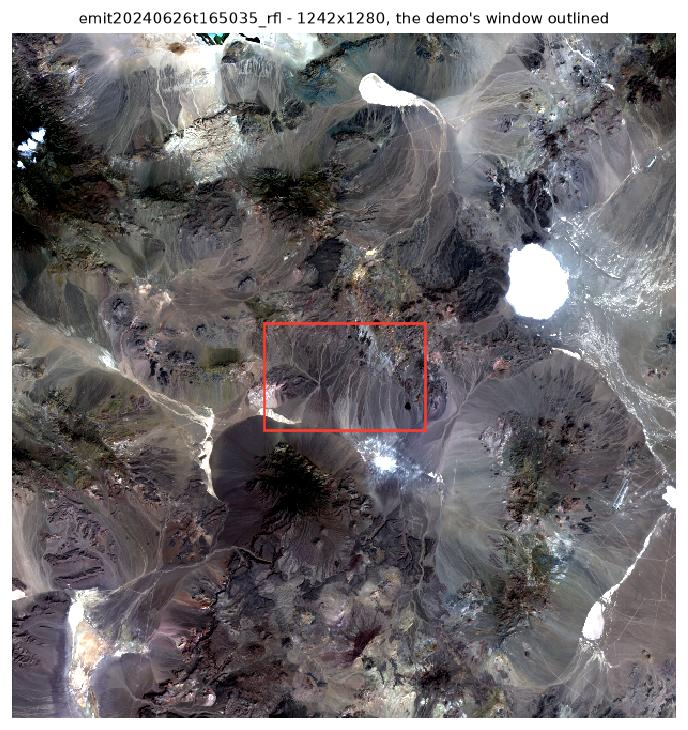
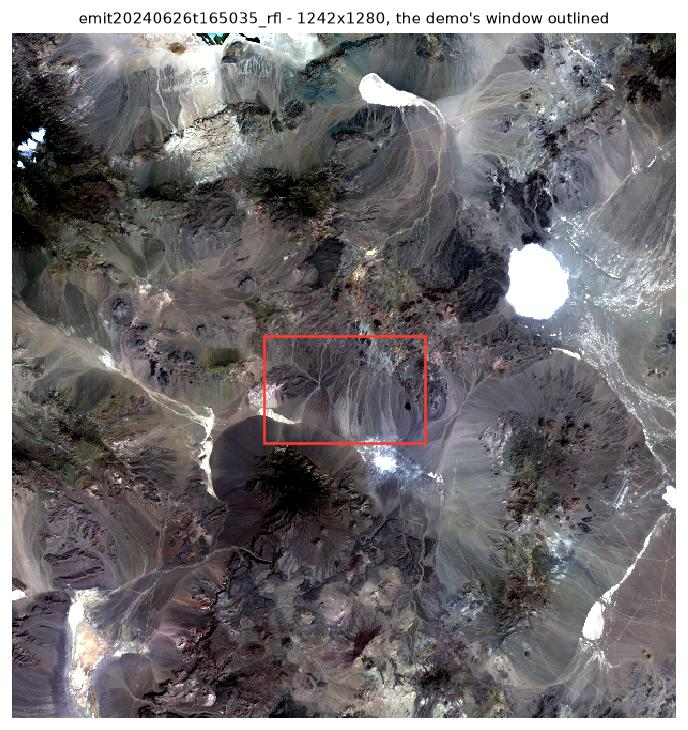
Trim the demo tile to 300x150: 40% faster for the same mineralogy
The 300x200 central tile ran 13m37s, which is a long time to ask of someone
trying a demo. Trimmed to 150 lines, still centred on the granule
(line 640 +/- 75, lines 565-714, samples 471-770), published as
demo-data-v6.

                        v5 300x200      v6 300x150
    runtime             13m 37s         8m 11s
    download            108 MB          81 MB
    group 1             96.7%, 25 mats  97.4%, 24 mats
    group 2             96.3%, 81 mats  95.7%, 78 mats

Nothing of substance is lost. The assemblage is the same -- a
goethite/hematite suite in group 1, argillic alteration in group 2 -- and
the top group-2 materials are arguably cleaner, with Kaolinite KGa-2 and
Kaolinite CM9 now second and third where a Plastic_Vinyl match previously
sat.

Width stays at 300 for emit-sds/tetracorder-lite#24. Both cubes verified
byte-identical to the granule after cropping. Runtime and scaling figures
updated everywhere they appear: banner, walkthrough, page, both devcontainer
configs and the READMEs. A full granule is now 35x the pixels for under 5x
the time rather than 26x for under 3x.

Claude-Session: https://claude.ai/code/session_01GqyHtwBF7eWNrTBmGjhyYP

Changed region(s): [[0.3663, 0.4219, 0.641, 0.4822], [0.3663, 0.5726, 0.641, 0.6329]]

diff --git a/.devcontainer/page/index.html b/.devcontainer/page/index.html
@@ -89,7 +89,7 @@
 <body>
 <main>
   <h1>Tetracorder on an EMIT L2A scene</h1>
-  <p class="sub">A 300&times;200 window of granule <code>emit20240626t165035</code>, run end to end
+  <p class="sub">A 300&times;150 window of granule <code>emit20240626t165035</code>, run end to end
      through <code>tetrapy</code>: convolve the USGS spectral library onto the scene's channels,
      set up and run Tetracorder, aggregate the results into L2B mineral products.</p>
 
@@ -116,13 +116,13 @@
     <div class="grid">
       <figure>
         <img src="rfl_rgb.png" alt="True-colour reflectance quicklook of the subset">
-        <figcaption>What the demo ran on: a 300&times;200 window, true colour
+        <figcaption>What the demo ran on: a 300&times;150 window, true colour
           (640 / 550 / 470 nm).</figcaption>
       </figure>
       <figure>
         <img src="full-scene.jpg" alt="The full granule with the demo's window outlined">
         <figcaption>Where it came from. The whole granule is 1242&times;1280 &mdash;
-          26&times; more pixels &mdash; and mostly snow-covered mountain. The window
+          35&times; more pixels &mdash; and mostly snow-covered mountain. The window
           is arid volcanic terrain &mdash; alluvial fans cut by dendritic drainage
           &mdash; taken from the centre of the granule. Almost every pixel carries
           an identification, and the mineral classes follow the fan lobes rather
@@ -133,9 +133,9 @@
     <p class="prose"><b>This is a subset.</b> Running a whole granule is the same
       command against a bigger file &mdash; point <code>data.rfl</code> and
       <code>data.rfluncert</code> in the config at it. Expect roughly half an hour
-      rather than fourteen minutes: measured on this hardware a full 1242&times;1280
-      granule took about 34 minutes against 13m37s for this window, so 26&times; the
-      pixels cost under 3&times; the time. Tetracorder emits its ~2,400 mineral
+      rather than eight minutes: measured on this hardware a full 1242&times;1280
+      granule took about 34 minutes against 8m11s for this window, so 35&times; the
+      pixels cost under 5&times; the time. Tetracorder emits its ~2,400 mineral
       products whatever the scene size, and on a small scene that fixed cost is
       almost the whole runtime.</p>
     <p class="prose"><b>The window is 300 samples wide on purpose.</b> Tetracorder

diff --git a/.devcontainer/tools/make_context_image.py b/.devcontainer/tools/make_context_image.py
@@ -1,7 +1,7 @@
 """
 Render a quicklook of a whole granule with the demo's window drawn on it.
 
-The demo runs on a 300x200 crop, which is easy to mistake for the size of an
+The demo runs on a 300x150 crop, which is easy to mistake for the size of an
 EMIT product. This produces the picture that puts it in proportion: the full
 granule, with the subset outlined where it was actually cut from.
 
@@ -10,7 +10,7 @@ cube and is never downloaded there. The result is committed under
 .devcontainer/page/ and served alongside the results.
 
     python make_context_image.py in/emit20250327t212148_rfl \
-        .devcontainer/page/full-scene.jpg --line 540 --sample 471
+        .devcontainer/page/full-scene.jpg --line 565 --sample 471
 """
 
 from __future__ import annotations
@@ -46,7 +46,7 @@ def main() -> None:
                                      formatter_class=argparse.RawDescriptionHelpFormatter)
     parser.add_argument("rfl", type=Path, help="full granule reflectance (the data, not the .hdr)")
     parser.add_argument("out", type=Path, help="PNG to write")
-    parser.add_argument("--line", type=int, default=540)
+    parser.add_argument("--line", type=int, default=565)
     parser.add_argument("--sample", type=int, default=471)
     parser.add_argument("--height", type=int, default=200)
     parser.add_argument("--width-px", dest="win_w", type=int, default=300)

diff --git a/.devcontainer/tools/make_subset.py b/.devcontainer/tools/make_subset.py
@@ -2,7 +2,7 @@
 Crop a spatial window out of an ENVI cube pair (reflectance + uncertainty).
 
 Used to build the small scene the Codespaces demo runs on. The full EMIT L2A
-granule is 1242x1280x285 float32 (1.8 GB per cube); a 300x200 window is ~68 MB
+granule is 1242x1280x285 float32 (1.8 GB per cube); a 300x150 window is ~68 MB
 per cube.
 
 Keep the window at least 299 samples wide: Tetracorder's ENVI headers disagree

diff --git a/.devcontainer/README.md b/.devcontainer/README.md
@@ -13,10 +13,10 @@ configure.
 
 Three things have to exist before the badge works for anyone who clicks it:
 
-1. **Publish the scene.** Create a release tagged `demo-data-v5` and attach the
+1. **Publish the scene.** Create a release tagged `demo-data-v6` and attach the
    archive built by `tools/make_subset.py` (see [The scene](#the-scene)). The
    URL in `devcontainer.json` points at
-   `releases/download/demo-data-v5/emit20240626t165035_300x200.tar.gz`.
+   `releases/download/demo-data-v6/emit20240626t165035_300x150.tar.gz`.
 
 2. **Push the branch** so `.github/workflows/container.yml` runs and publishes
    `ghcr.io/jl-0/tetracorder-lite:demo`.
@@ -55,8 +55,8 @@ at a time:
 
 ```
   [x] 1. Container image    ghcr.io/jl-0/tetracorder-lite:demo, 1.7 GB compressed
-  [x] 2. Sample scene       300x200 window of EMIT granule emit20240626t165035
-  [ ] 3. Run Tetracorder    convolve, setup, tetrun, aggregate -- about 14 minutes
+  [x] 2. Sample scene       300x150 window of EMIT granule emit20240626t165035
+  [ ] 3. Run Tetracorder    convolve, setup, tetrun, aggregate -- about 8 minutes
   [ ] 4. Open the results   mineral maps and the live log, on a forwarded port
 ```
 
@@ -159,7 +159,7 @@ also has the right lifecycle: preserved across stop/start, discarded on rebuild.
 ## Runtime
 
 Measured on this branch, 4 vCPU, amd64 under Rosetta on an Apple M5 Max
-(Colima), 300x200 scene, timed end to end including rendering:
+(Colima), 300x150 scene, timed end to end including rendering:
 
 | | |
 |---|---|
@@ -276,7 +276,7 @@ Overrides, all read by `scripts/common.sh`:
 |---|---|
 | `TETRACORDER_IMAGE` | `ghcr.io/jl-0/tetracorder-lite:demo` |
 | `TETRACORDER_BUILD` | `0` — set to `1` to build from `Containerfile` |
-| `TETRACORDER_SCENE_URL` | the `demo-data-v5` release asset |
+| `TETRACORDER_SCENE_URL` | the `demo-data-v6` release asset |
 | `TETRACORDER_SCENE_SHA256` | checksum of that archive; `-` disables the check |
 | `TETRACORDER_WORK` | `$HOME/tetracorder-demo` |
 | `TETRACORDER_PORT` | `8080` |

diff --git a/.devcontainer/START-HERE.md b/.devcontainer/START-HERE.md
@@ -69,8 +69,8 @@ It takes one step at a time — fetch the image, fetch a sample scene, run
 Tetracorder, open the results — and tells you what each one does before it does
 it. Nothing has been started for you.
 
-A full run is about fourteen minutes. Most of that is fixed cost: Tetracorder
-emits roughly 2,400 mineral products whatever the scene size, so the 300×200
+A full run is about eight minutes. Most of that is fixed cost: Tetracorder
+emits roughly 2,400 mineral products whatever the scene size, so the 300×150
 window is not what makes it slow.
 
 > Stopping a codespace terminates every running process but keeps your files, so

diff --git a/README.md b/README.md
@@ -20,7 +20,7 @@ of Tetracorder.  Suggested contributions are welcome as PRs.
 
 [![Open in GitHub Codespaces](https://github.com/codespaces/badge.svg)](https://codespaces.new/jl-0/tetracorder-lite/tree/codespace-demo?quickstart=1)
 
-A guided walkthrough: run Tetracorder over a 300x200 window of a real EMIT L2A
+A guided walkthrough: run Tetracorder over a 300x150 window of a real EMIT L2A
 scene, one step at a time, and see the mineral maps at the end. No install, no
 configuration; about ten minutes of which nine are the run itself.
 
